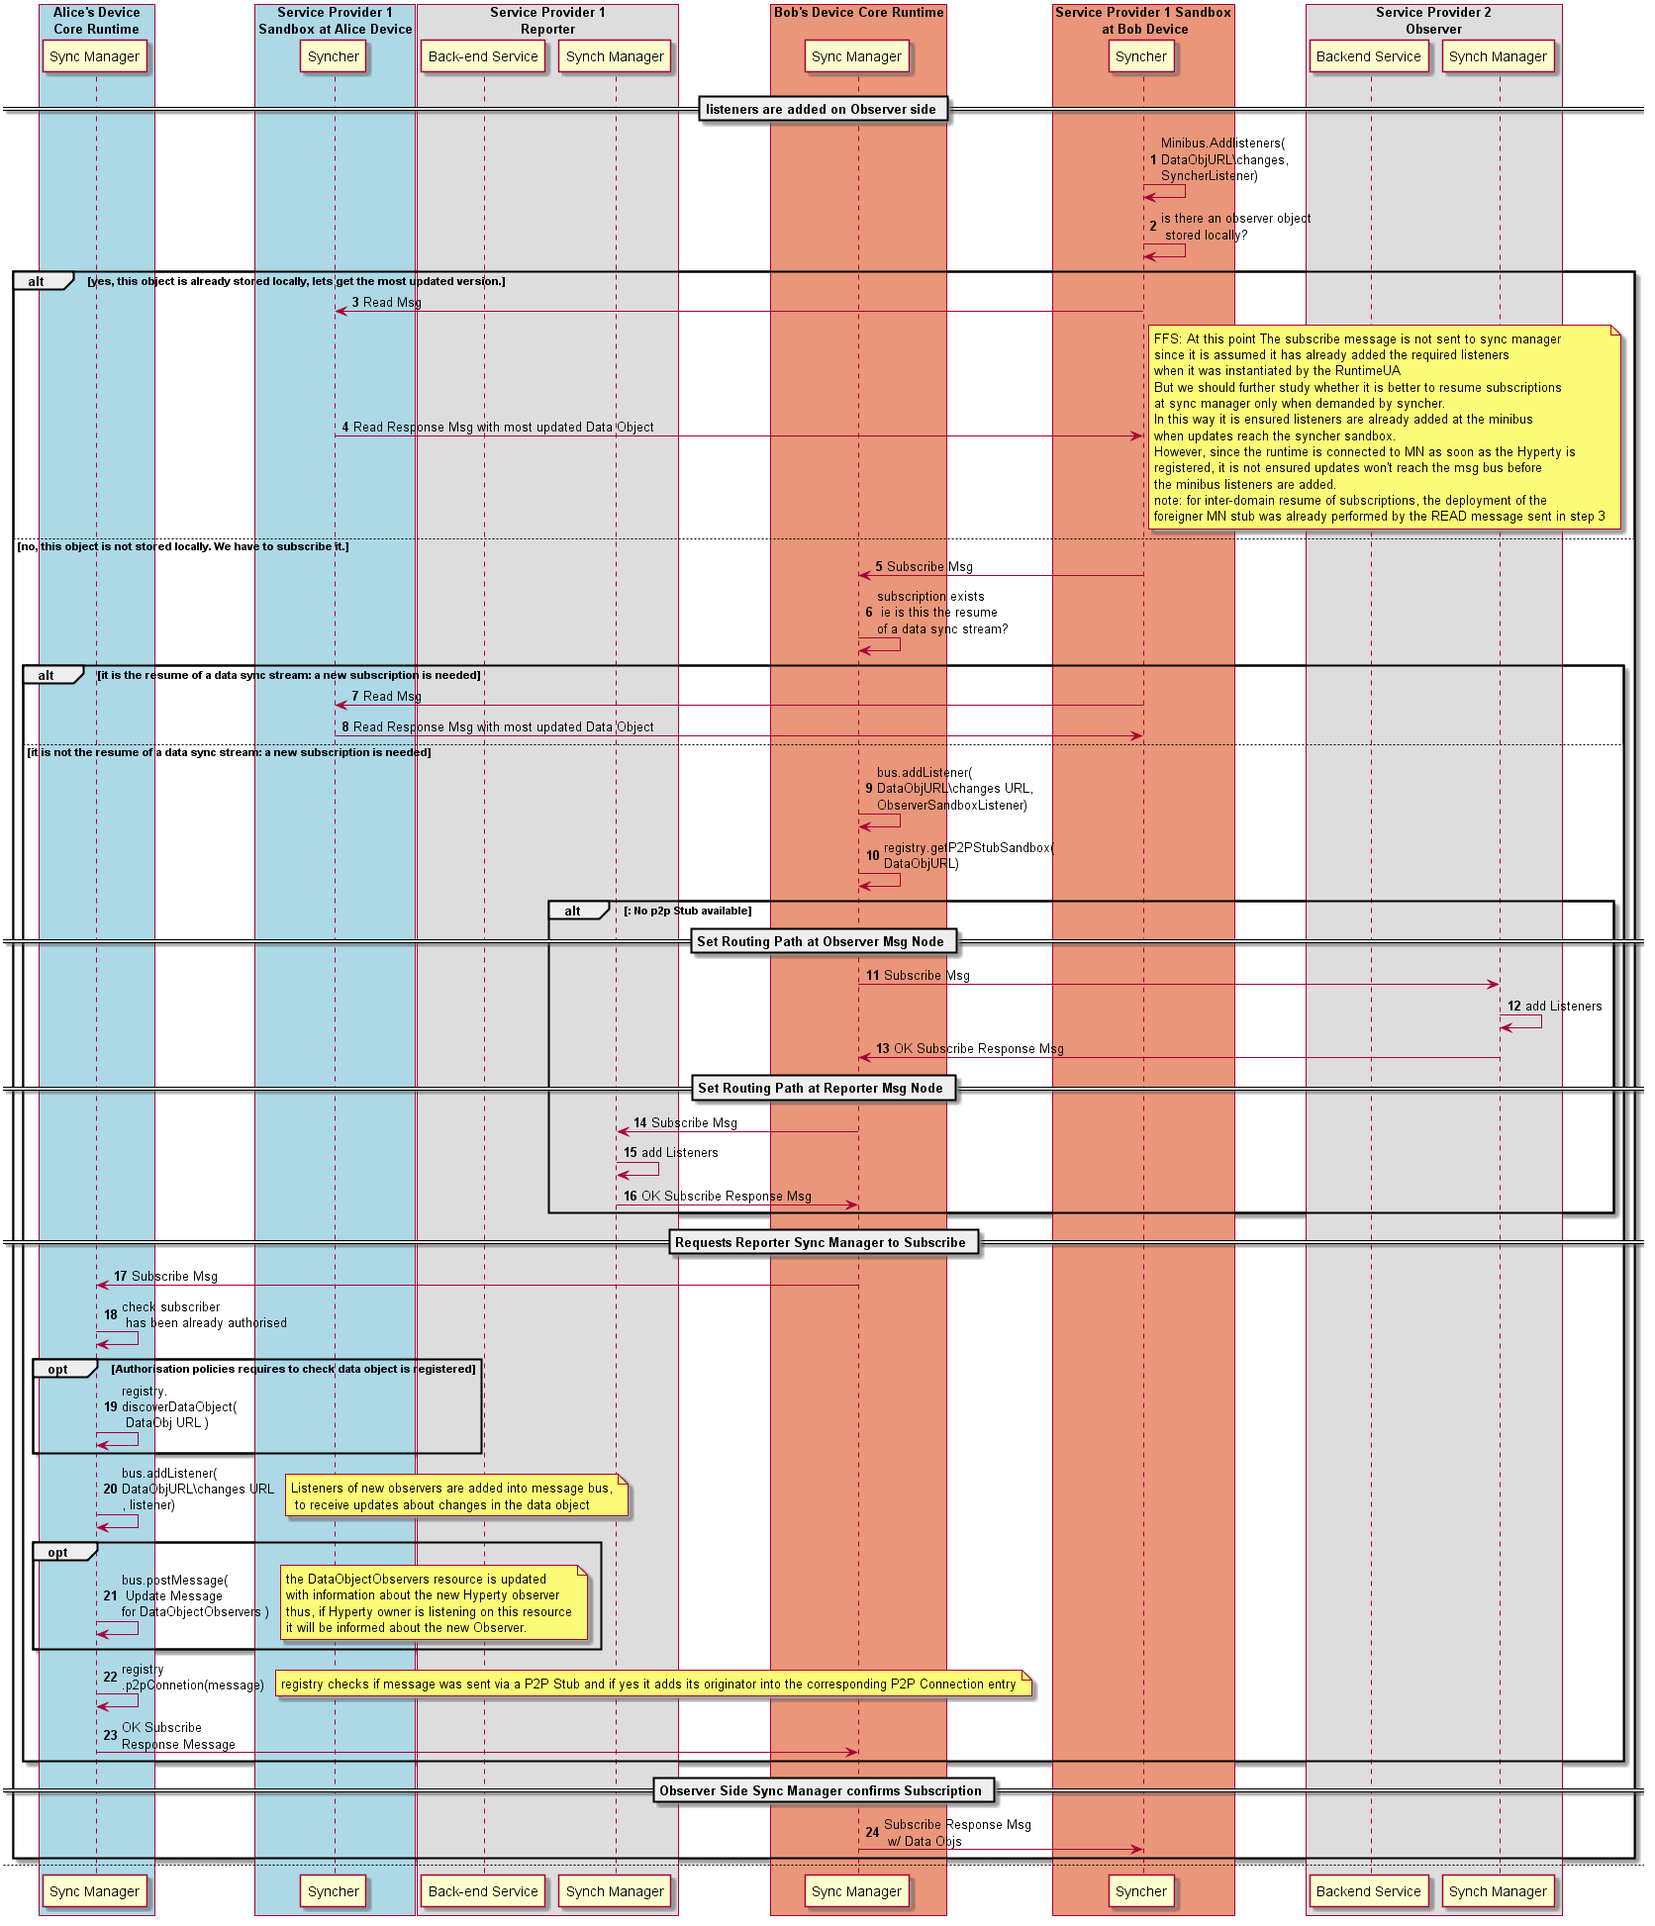
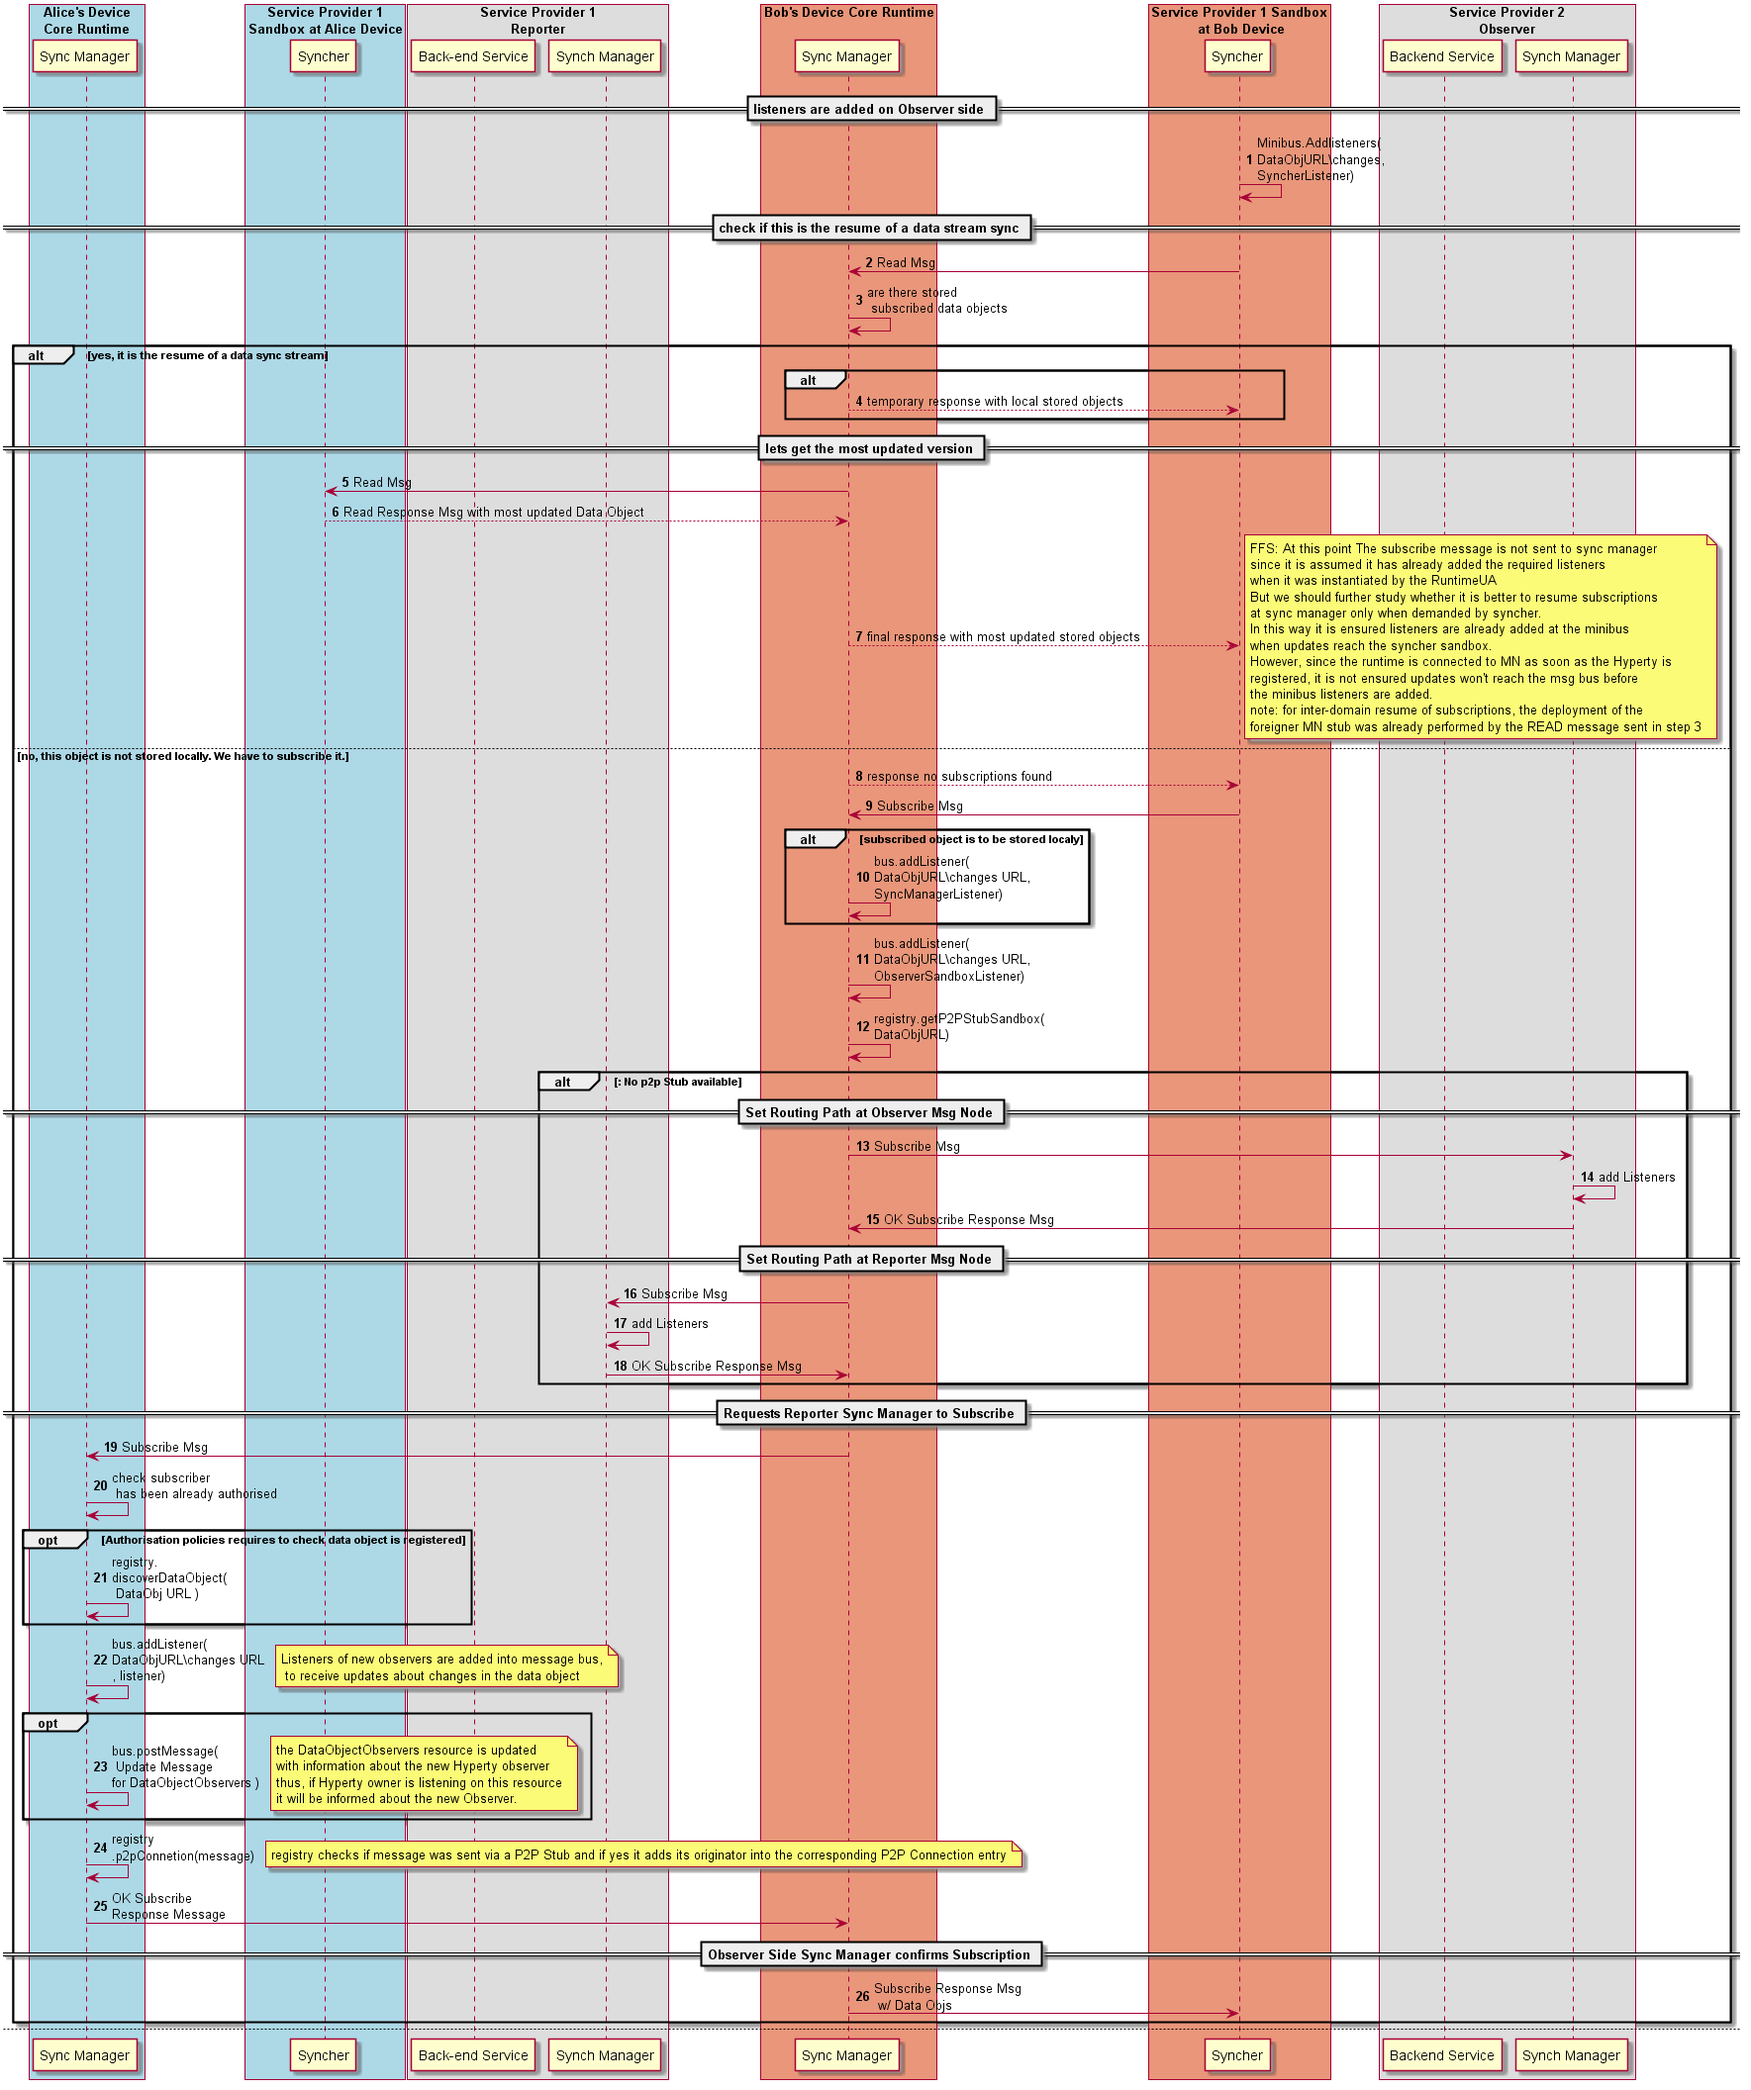
object subscription process updated to support local storage of data object by sync manager

diff --git a/messages/data-sync-messages.md b/messages/data-sync-messages.md
@@ -90,10 +90,11 @@ Message sent by Observer (candidate) Hyperty Instance to the Observer Runtime Sy
 "type" : "subscribe",
 "from" : "hyperty://<observer-sp-domain>/<hyperty-observer-instance-identifier>",
 "to" : "hyperty-runtime://<observer-sp-domain>/<hyperty-observer-runtime-instance-identifier>/sm",
-"body" : { "resource" : "<ObjectURL>" , "schema" : "hyperty-catalogue://<sp-domain>/dataObjectSchema/<schema-identifier>" , "p2p" : true|false }
+"body" : { "resource" : "<ObjectURL>" , "schema" : "hyperty-catalogue://<sp-domain>/dataObjectSchema/<schema-identifier>" , "p2p" : true|false , "store" : true|false}
 ```
 
 **note:** `"p2p"` is optional and indicates if the sync data stream should use p2p protostubs.
+**note1:** `"store"` is optional and indicates if the sync data object should should be stored localy by the sync manager.
 
 ###### Response
 
@@ -116,6 +117,51 @@ Message sent by Observer (candidate) Hyperty Instance to the Observer Runtime Sy
 "to" : "hyperty://<observer-sp-domain>/<hyperty-observer-instance-identifier>",
 "body" : { "code" : "2XX", "value" : "<data object>"  }
 ```
+#### Query the Sync Manager about subscribed Objects
+
+Read Message sent by Reader Hyperty to Data Object URL.
+
+```
+"id" : 1,
+"type" : "read",
+"from" : "hyperty://<sp-domain>/<hyperty-observer-identifier>",
+"to" : "hyperty-runtime://<observer-sp-domain>/<hyperty-observer-runtime-instance-identifier>/sm"
+```
+
+##### Successful Read Response with Subscribed Data Objects
+
+Successful Read Response Message from Synch Manager to Observer Hyperty with temporary local stored subscribed data objects.
+
+```
+"id" : 1,
+"type" : "response",
+"from" : "<ObjectURL>",
+"to" : "hyperty://<sp-domain>/<hyperty-reader-identifier>",
+"body" : { "code" : "100" , "value" : [<data object>] }
+```
+
+Successful Read Response Message from Synch Manager to Observer Hyperty with final up to data subscribed data objects .
+
+```
+"id" : 1,
+"type" : "response",
+"from" : "<ObjectURL>",
+"to" : "hyperty://<sp-domain>/<hyperty-reader-identifier>",
+"body" : { "code" : "200" , "value" : [<data object>] }
+```
+
+##### Not Found Read Response
+
+Not Found Read Response Message from Synch Manager to Observer Hyperty.
+
+```
+"id" : 1,
+"type" : "response",
+"from" : "<ObjectURL>",
+"to" : "hyperty://<sp-domain>/<hyperty-reader-identifier>",
+"body" : { "code" : "404" , "description" : "not found" }
+```
+
 
 ##### Data Object Unsubscription request by Observer Hyperty
 
@@ -464,6 +510,29 @@ Message sent by Child Object Reporter Hyperty to Data Object Parent Children Han
 ```
 
 #### Data Object Read
+
+Read Message sent by Reader Hyperty to Data Object URL.
+
+```
+"id" : 1,
+"type" : "read",
+"from" : "hyperty://<sp-domain>/<hyperty-reader-identifier>",
+"to" : "<ObjectURL>"
+```
+
+##### Successful Read Response with Data Object
+
+Successful Read Response Message from Reporter Hyperty to Reader Hyperty.
+
+```
+"id" : 1,
+"type" : "response",
+"from" : "<ObjectURL>",
+"to" : "hyperty://<sp-domain>/<hyperty-reader-identifier>",
+"body" : { "code" : "2XX" , "value" : "<data object>" }
+```
+
+#### Query the Sync Manager about subscribed Objects
 
 Read Message sent by Reader Hyperty to Data Object URL.
 

diff --git a/datamodel/core/hyperty-registry/readme.md b/datamodel/core/hyperty-registry/readme.md
@@ -21,7 +21,7 @@ Each of these objects share a common set of data:
 -	stubs: the protocol stubs descriptor (including the deployable protocol stub package) that can be used to reach the registered Object including Hyperty Instance, Hyperty Runtime and Data Objects. The protocol stub can be used to reach the Object instance through a Message Node or directly connect to the Object Instance runtime (full P2P connection)
 -	stubsConfiguration: configuration data required when deploying stubs used for P2P connections.
 - **Phase 2 new!!** the `runtime` defines the URL of the runtime where the Hyperty instance is deployed.
-- **Phase 2 new!!** The `p2pRequester` defines the Catalogue URL of a [P2P Requester protocolStub](../../../messaging-framework/p2p-msg-delivery.md) that can be used in order to setup a P2P Connection with this Hyperty instance.
+- **Phase 2 new!!** The `p2pRequester` defines the Catalogue URL of a [P2P Requester protocolStub](../../../messaging-framework/p2p-msg-delivery.md) that can be used in order to setup a P2P Connection with this Registry instance.
 
 ### Hyperty Instance
 
